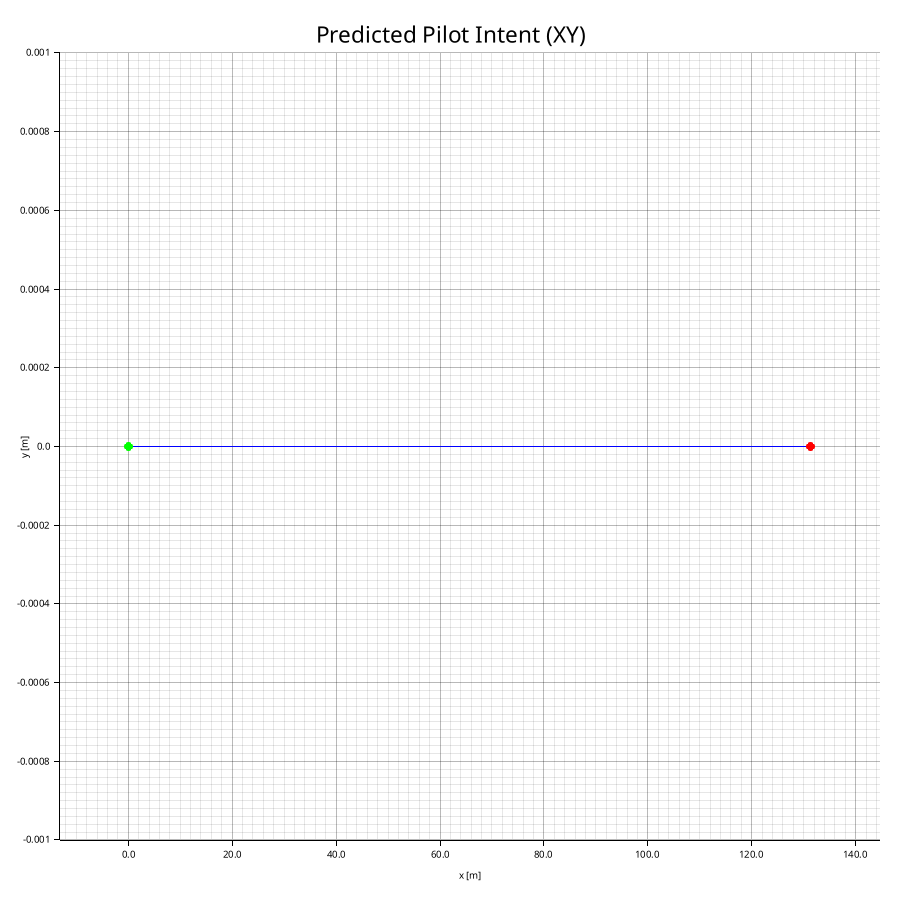
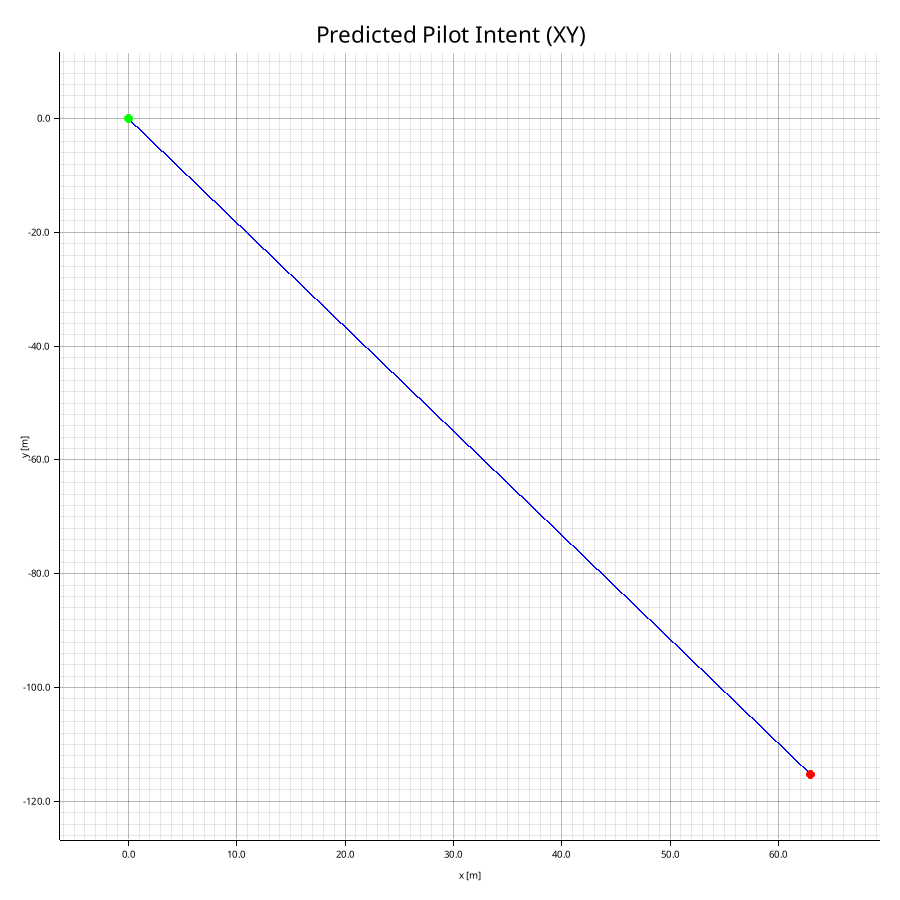
simple test

Changed region(s): [[0.0311, 0.0622, 0.9644, 0.9644], [0.0311, 0.0311, 0.0622, 0.0622]]

diff --git a/src/dynamic_models/simple_model.rs b/src/dynamic_models/simple_model.rs
@@ -15,7 +15,7 @@ impl Dynamics for SimpleModel {
         let ay_body = -GRAVITY * input.roll.tan();
 
         // [ax_body, ay_body, yaw_rate]
-        vec![ax_body, ay_body, input.yaw_rate]
+        vec![ax_body, ay_body]
     }
 
     fn f(&self, state: &State, control: &Control) -> State {
@@ -25,7 +25,7 @@ impl Dynamics for SimpleModel {
 
         let ax_body = control[0];
         let ay_body = control[1];
-        let yaw_rate = control[2];
+        // let yaw_rate = control[2];
 
         // 1. Rotate body acceleration into world frame
         let ax_world = ax_body * yaw.cos() - ay_body * yaw.sin();
@@ -36,11 +36,11 @@ impl Dynamics for SimpleModel {
         let dvy = ay_world - (self.drag * vy);
 
         vec![
-            vx,       // x_dot
-            vy,       // y_dot
-            dvx,      // vx_dot
-            dvy,      // vy_dot
-            yaw_rate, // yaw_dot
+            vx,  // x_dot
+            vy,  // y_dot
+            dvx, // vx_dot
+            dvy, // vy_dot
+            0.0, // yaw_rate, // yaw_dot
         ]
     }
 }

diff --git a/src/main.rs b/src/main.rs
@@ -9,9 +9,9 @@ use pilots_intent::{
 fn main() {
     // 1. Pilot input now includes yaw_rate to handle constant turns
     let input = DroneInput {
-        pitch: 20f64.to_radians(), // Realistic forward tilt
-        roll: 0f64.to_radians(),   // No lateral tilt
-        yaw_rate: -0.0,            // Constant slow turn (radians/sec)
+        pitch: 0f64.to_radians(), // Realistic forward tilt
+        roll: 20f64.to_radians(), // No lateral tilt
+                                  // yaw_rate: -0.0,            // Constant slow turn (radians/sec)
     };
 
     let t_final = 10.0;
@@ -25,7 +25,7 @@ fn main() {
         0.0, // y
         0.0, // vx (Current momentum West)
         0.0, // vy (Current momentum North)
-        0.0, // yaw (Facing direction)
+        0.5, // yaw (Facing direction)
     ];
 
     // 3. Simple planar dynamics model

diff --git a/src/types.rs b/src/types.rs
@@ -1,9 +1,9 @@
 #[derive(Debug)]
 
 pub struct DroneInput {
-    pub roll: f64,     // radians
-    pub pitch: f64,    // radians
-    pub yaw_rate: f64, // radians/sec (held constant)
+    pub roll: f64, // radians
+    pub pitch: f64, // radians
+                   // pub yaw_rate: f64, // radians/sec (held constant)
 }
 
 /// Flattened state vector: [x, y, vx, vy, yaw]
